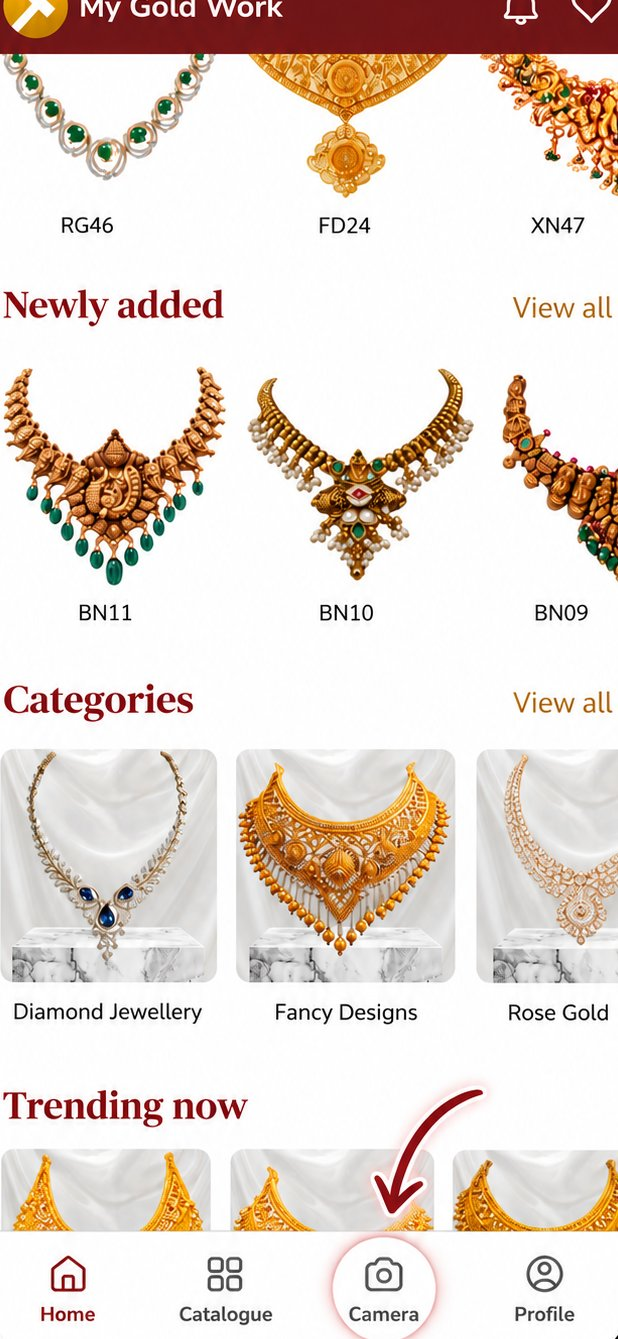
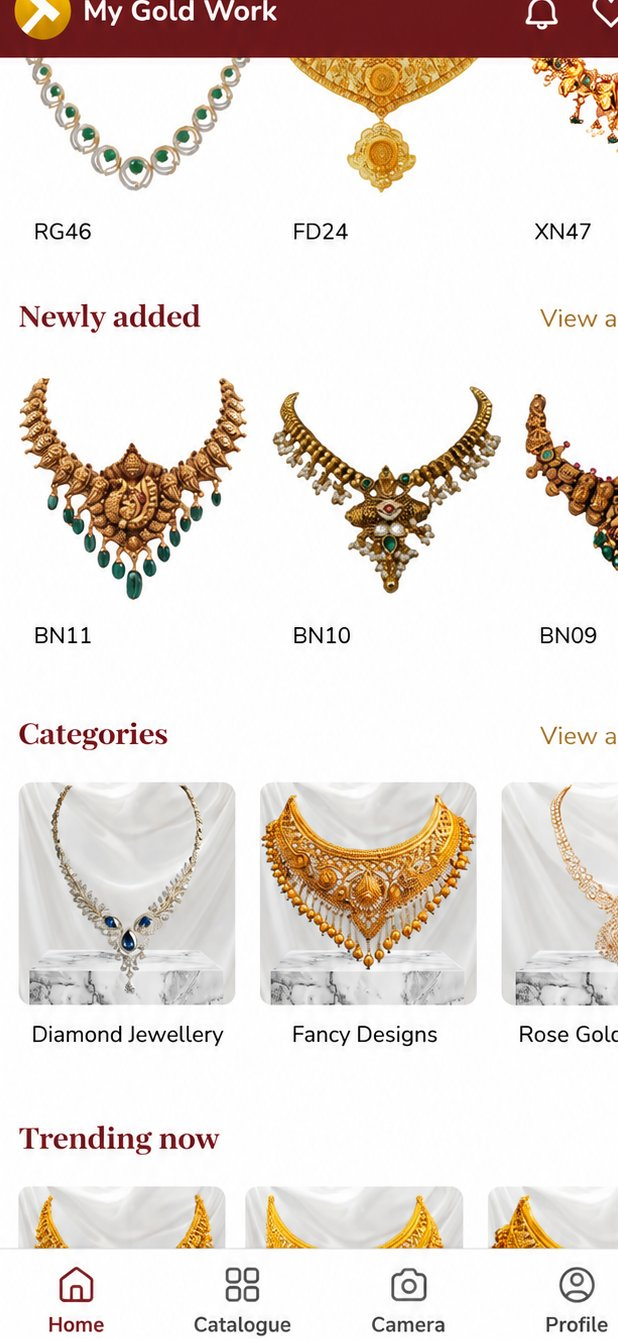
Use a clean home-screen shot for the Click camera step
Replaces the annotated version (arrow + circled camera tab) with a
plain screenshot of the app.

diff --git a/src/components/HowItWorks.tsx b/src/components/HowItWorks.tsx
@@ -3,7 +3,7 @@ import { usePhoneScroller } from '../hooks/usePhoneScroller';
 import { useScrollReveal } from '../hooks/useScrollReveal';
 
 const screens = [
-  { title: 'Click camera', image: 'click-camera-tab.jpg', alt: 'The My Gold Work home screen with the Camera tab circled and an arrow pointing to it' },
+  { title: 'Click camera', image: 'click-camera-tab.jpg', alt: 'The My Gold Work home screen, with Home, Catalogue, Camera and Profile tabs along the bottom' },
   { title: 'Start the try-on', image: '09.jpg', alt: "The Free Try-On screen with a Got it, Let's Try button" },
   { title: 'Pick your choice and see it live', image: '10.jpg', alt: 'LIVE TRY-ON showing a gold necklace on a customer, live' },
 ] as const;
